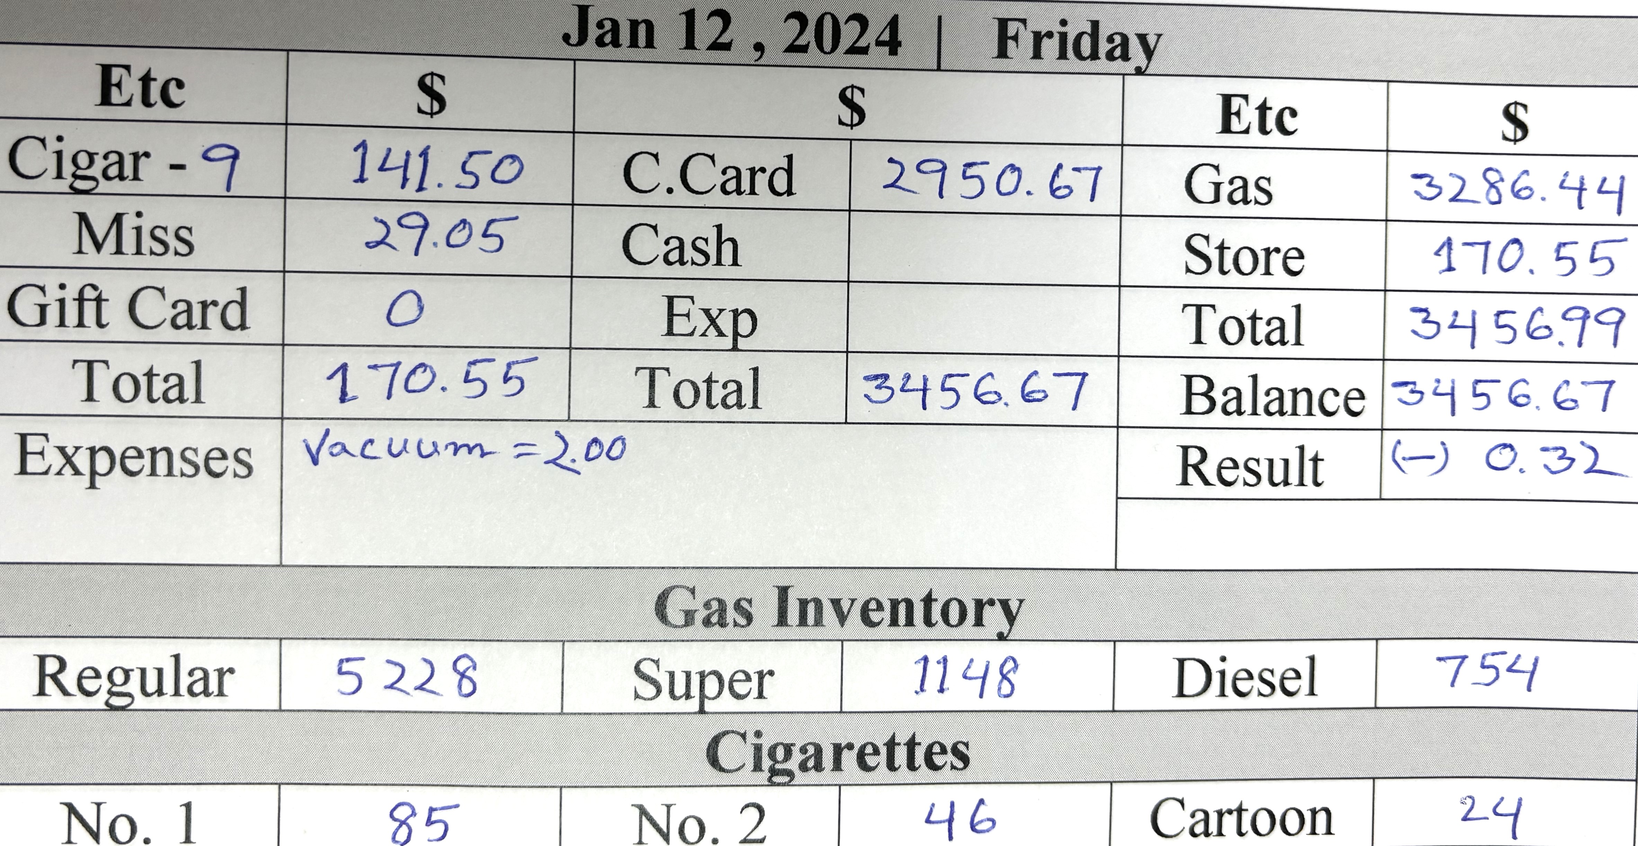
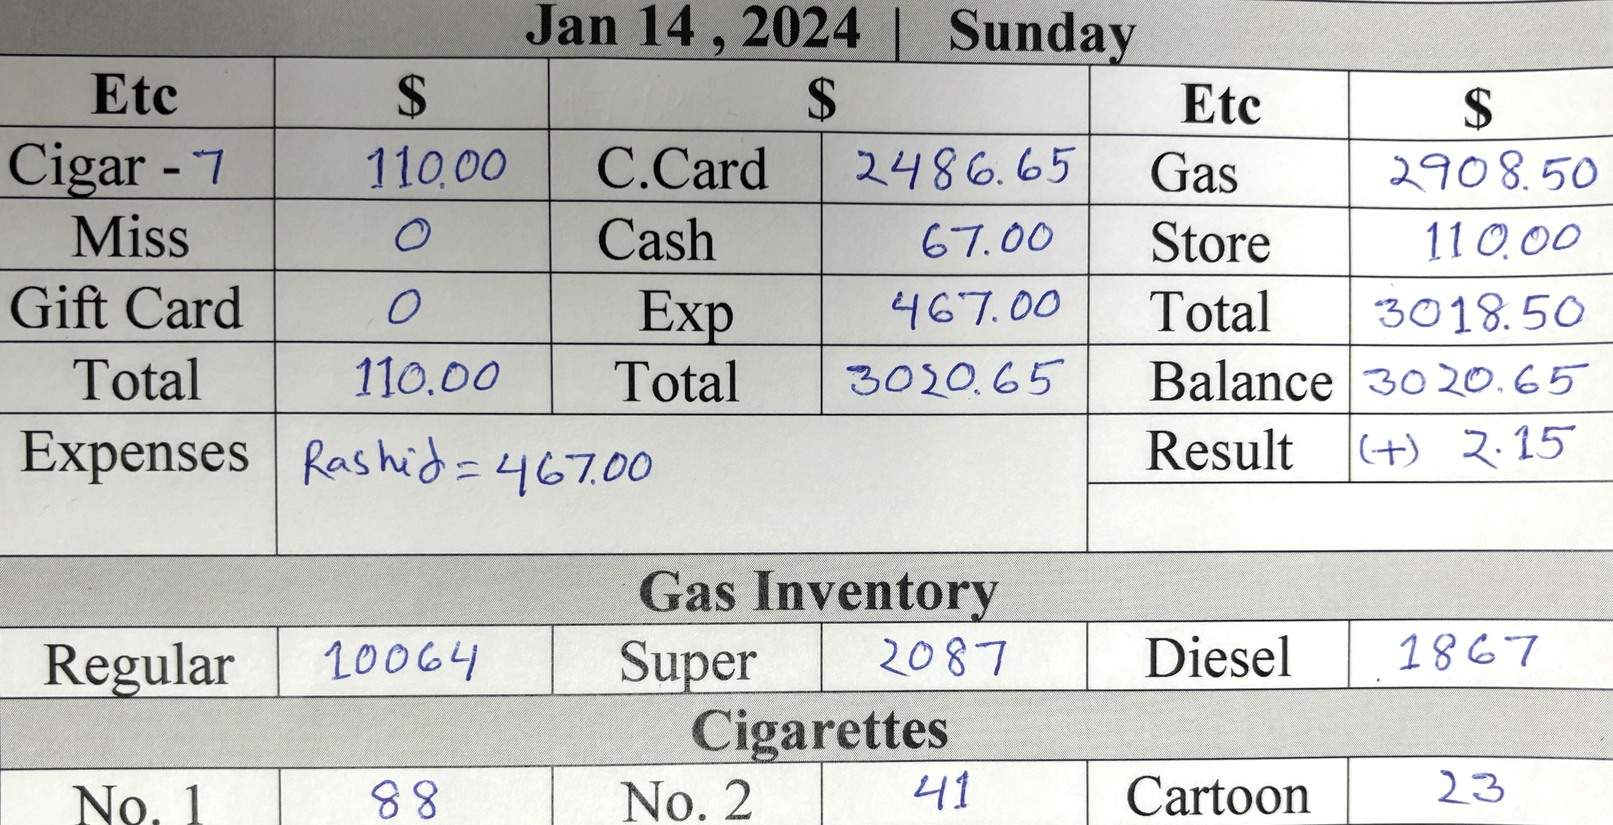
14 done

diff --git a/card.min.html b/card.min.html
@@ -1,1 +1,1 @@
-<!DOCTYPE html> <html lang="en"> <head> <meta charset="UTF-8"> <meta http-equiv="X-UA-Compatible" content="IE=edge"> <meta name="viewport" content="width=device-width,initial-scale=1"> <title>Gallon Info</title> <link rel="stylesheet" href="https://cdn.jsdelivr.net/npm/bootstrap@5.3.0-alpha1/dist/css/bootstrap.min.css"> </head> <body> <div class="card-group d-sm-flex flex-row bd-highlight mb- justify-content-center"> <div class="card bg-secondary align-items-center justify-content-center" style="height:50px"> <div class="card-body text-info fst-italic"> <h5 class="card-title fw-bolder text-center">Regular Price : <span class="text-warning">$3.09</span></h5> </div> </div> <div class="card bg-secondary align-items-center justify-content-center" style="height:50px"> <div class="card-body text-info fst-italic"> <h5 class="card-title fw-bolder text-center pt-">Silver Price : <span class="text-warning">$3.99</span></h5> </div> </div> <div class="card bg-secondary align-items-center justify-content-center" style="height:50px"> <div class="card-body text-info fst-italic"> <h5 class="card-title fw-bolder text-center">Super Price : <span class="text-warning">$4.09</span></h5> </div> </div> <div class="card bg-secondary align-items-center justify-content-center" style="height:50px"> <div class="card-body text-info fst-italic"> <h5 class="card-title fw-bolder text-center">Diesel Price : <span class="text-warning">$4.39</span></h5> </div> </div> </div> <div class="card-group"> <div class="card"> <button type="button" class="btn btn-warning text- fs- fw-bold text-uppercase"> For store Details <a title="printPage Me" class="text-bg-danger ms-3 fw-bolder p-1 rounded-3 text-decoration-none" href="index.html"> Click Me </a> </button> </div> </div> <div class="card-group m-0 d-sm-flex flex-row bd-highlight mb-"> <div class="card me-1 bg-info"> <h5 class="card-title text-center pt-4 m-0"> <button class="p-1 rounded-3" type="button"><a title="Click Me" class="text-decoration-none text-primary fw-bolder" href="index.html">   </a> </button> </h5>  <p class="card-text"></p> <img src="allPic/12.jpg" class="card-img-top text-danger text-center fw-bolder fs-3" alt="Call Rashid "> <div class="card-body">   <p class="card-text"></p> </div> </div> <div class="card me-1 bg-info"> <h5 class="card-title text-center pt-4 m-0"> <button class="p-1 rounded-3" type="button"><a title="Click Me" class="text-primary fw-bolder text-decoration-none" href="index.html"> Jan 11,2024 </a> </button> </h5>  <p class="card-text"></p> <img src="allPic/11.jpg" class="card-img-top text-center text-bg-danger" alt="Not Done"> <div class="card-body">   <p class="card-text"></p> </div> </div> <div class="card ms- bg-info"> <h5 class="card-title text-center pt-4 m-0"> <button class="p-1 rounded-3" type="button"><a title="Click Me" class="text-primary fw-bolder text-decoration-none" href="index.html"> Jan 10,2024 </a> </button> </h5>  <p class="card-text"></p> <img src="allPic/10.jpg" class="card-img-top text-center text-bg-danger" alt="Not Done"> <div class="card-body">   <p class="card-text"></p> </div> </div> <div class="card me-1 bg-info"> <h5 class="card-title text-center pt-4 m-0"> <button class="p-1 rounded-3" type="button"><a title="Click Me" class="text-primary fw-bolder text-decoration-none" href="index.html"> Jan 9,2024 </a> </button> </h5>  <p class="card-text"></p> <img title="Pic" src="allPic/9.jpg" class="card-img-top text-bg-danger fw-bolder text-center" alt="Already Done"> <div class="card-body">   <p class="card-text"></p> </div> </div> </div> <div class="card"> <div class="card-header bg-warning text-dark fw-bolder text-center py-3"> All Rights Reserved @ Jaber Ali , 2024 </div> </div>  <script type="text/javascript">const timeElement=document.querySelector(".time"),dateElement=document.querySelector(".date");function formatTime(e){e.getHours(),e.getMinutes(),e.getHours();return""}function formatDate(e){return` ${["January","February","March","April","May","June","July","August","September","October","November","December"][e.getMonth()]} ${e.getDate()-1}, ${e.getFullYear()}`}setInterval((()=>{const e=new Date;timeElement.textContent=formatTime(e),dateElement.textContent=formatDate(e)}),200)</script> 
+<!DOCTYPE html> <html lang="en"> <head> <meta charset="UTF-8"> <meta http-equiv="X-UA-Compatible" content="IE=edge"> <meta name="viewport" content="width=device-width,initial-scale=1"> <title>Gallon Info</title> <link rel="stylesheet" href="https://cdn.jsdelivr.net/npm/bootstrap@5.3.0-alpha1/dist/css/bootstrap.min.css"> </head> <body> <div class="card-group d-sm-flex flex-row bd-highlight mb- justify-content-center"> <div class="card bg-secondary align-items-center justify-content-center" style="height:50px"> <div class="card-body text-info fst-italic"> <h5 class="card-title fw-bolder text-center">Regular Price : <span class="text-warning">$3.09</span></h5> </div> </div> <div class="card bg-secondary align-items-center justify-content-center" style="height:50px"> <div class="card-body text-info fst-italic"> <h5 class="card-title fw-bolder text-center pt-">Silver Price : <span class="text-warning">$3.99</span></h5> </div> </div> <div class="card bg-secondary align-items-center justify-content-center" style="height:50px"> <div class="card-body text-info fst-italic"> <h5 class="card-title fw-bolder text-center">Super Price : <span class="text-warning">$4.09</span></h5> </div> </div> <div class="card bg-secondary align-items-center justify-content-center" style="height:50px"> <div class="card-body text-info fst-italic"> <h5 class="card-title fw-bolder text-center">Diesel Price : <span class="text-warning">$4.39</span></h5> </div> </div> </div> <div class="card-group"> <div class="card"> <button type="button" class="btn btn-warning text- fs- fw-bold text-uppercase"> For store Details <a title="printPage Me" class="text-bg-danger ms-3 fw-bolder p-1 rounded-3 text-decoration-none" href="index.html"> Click Me </a> </button> </div> </div> <div class="card-group m-0 d-sm-flex flex-row bd-highlight mb-"> <div class="card me-1 bg-info"> <h5 class="card-title text-center pt-4 m-0"> <button class="p-1 rounded-3" type="button"><a title="Click Me" class="text-decoration-none text-primary fw-bolder" href="index.html">   </a> </button> </h5>  <p class="card-text"></p> <img src="allPic/14.jpg" class="card-img-top text-danger text-center fw-bolder fs-3" alt="Call Rashid "> <div class="card-body">   <p class="card-text"></p> </div> </div> <div class="card me-1 bg-info"> <h5 class="card-title text-center pt-4 m-0"> <button class="p-1 rounded-3" type="button"><a title="Click Me" class="text-primary fw-bolder text-decoration-none" href="index.html"> Jan 13,2024 </a> </button> </h5>  <p class="card-text"></p> <img src="allPic/13.jpg" class="card-img-top text-center text-bg-danger" alt="Not Done"> <div class="card-body">   <p class="card-text"></p> </div> </div> <div class="card ms- bg-info"> <h5 class="card-title text-center pt-4 m-0"> <button class="p-1 rounded-3" type="button"><a title="Click Me" class="text-primary fw-bolder text-decoration-none" href="index.html"> Jan 12,2024 </a> </button> </h5>  <p class="card-text"></p> <img src="allPic/12.jpg" class="card-img-top text-center text-bg-danger" alt="Not Done"> <div class="card-body">   <p class="card-text"></p> </div> </div> <div class="card me-1 bg-info"> <h5 class="card-title text-center pt-4 m-0"> <button class="p-1 rounded-3" type="button"><a title="Click Me" class="text-primary fw-bolder text-decoration-none" href="index.html"> Jan 11,2024 </a> </button> </h5>  <p class="card-text"></p> <img title="Pic" src="allPic/11.jpg" class="card-img-top text-bg-danger fw-bolder text-center" alt="Already Done"> <div class="card-body">   <p class="card-text"></p> </div> </div> </div> <div class="card"> <div class="card-header bg-warning text-dark fw-bolder text-center py-3"> All Rights Reserved @ Jaber Ali , 2024 </div> </div>  <script type="text/javascript">const timeElement=document.querySelector(".time"),dateElement=document.querySelector(".date");function formatTime(e){e.getHours(),e.getMinutes(),e.getHours();return""}function formatDate(e){return` ${["January","February","March","April","May","June","July","August","September","October","November","December"][e.getMonth()]} ${e.getDate()-1}, ${e.getFullYear()}`}setInterval((()=>{const e=new Date;timeElement.textContent=formatTime(e),dateElement.textContent=formatDate(e)}),200)</script> 

diff --git a/index.min.html b/index.min.html
@@ -1,1 +1,1 @@
-<!DOCTYPE html> <html lang="en"> <head> <meta charset="UTF-8"> <meta http-equiv="X-UA-Compatible" content="IE=edge"> <meta name="viewport" content="width=device-width,initial-scale=1"> <title>Store Info</title> <link rel="stylesheet" href="https://cdn.jsdelivr.net/npm/bootstrap@5.3.0-alpha1/dist/css/bootstrap.min.css"> </head> <body> <div class="text-bg-success py-2 fw-bold text-uppercase"> <marquee behavior="" direction=""><span class="text-bolder text-bg-danger rounded-circle m-lg-2 fs-">***</span> Personal Business Information <span class="text-bolder text-bg-danger rounded-circle m-lg-2 fs-">***</span></marquee> </div> <div class="card-group"> <div class="card"> <button type="button" class="btn btn-warning fs- fw-bold text-uppercase"> For Gallon Details <a title="printPage Me" class="text-bg-danger ms-3 fw-bolder p-1 rounded-3 text-decoration-none" href="card.html"> Click Me </a>  </button> </div> </div> <div class="card-group"> <div class="card"> <button type="button" class="btn btn-warning fs- fw-bold text-uppercase"> Order Cigarettes <a title="printPage Me" class="text-bg-danger ms-3 fw-bolder p-1 rounded-3 text-decoration-none" href="cigarettes.html"> Click Me </a> </button> </div> <div class="card"> <button type="button" class="btn btn-warning fs- fw-bold text-uppercase"> Weekly Total Money<a title="printPage Me" class="text-bg-danger ms-3 fw-bolder p-1 rounded-3 text-decoration-none" href="weekly.html"> Click Me </a> </button> </div> </div> <div class="text-center py-2"> <button class="fw-bold fs-5 rounded-2 text-bg-light text-primary"> <a title="printPage Me" class="text-decoration-none" href="card.html"> <span>   </span></a>  <span class=""> <button class="ms-5 fw-bolder rounded-2" onclick="printPage()"> Print Me </button></span> </button> </div> <div class="card-group"> <div class="card"> <button type="button" class="btn btn-info fs- fw-bold text-uppercase"> Shift Report <span class="text-white ms-1">*</span> </button> <img src="allPic/hisab.jpg" class="card-img-top text-center text-bg-danger" alt="NOT FINISH"> </div> </div>  <div class="card-grou"> <div class="card pb-3"> <button type="button" class="btn btn-secondary fs fw-bold text-uppercase"> Exp : <span class="text-warning ms-3">0</span> </button> </div> </div> <div class="card-group"> <div class="card"> <button type="button" class="btn btn-secondary fs- fw-bold text-uppercase"> Auto shop </button> </div> </div> <div class="pb-3"> <div class="d-flex justify-content-around border border-dark fw-bolder"> <div class="p-0 text-info">T.M</div> <div class="p-0 text-danger">460</div> <div class="p-0 text-info">Etc</div> <div class="p-0 text-danger">113</div> <div class="p-0 text-info">Rest</div> <div class="p-0 text-danger">347</div> </div> </div>  <!-- #footer start --> <div class="text-bg-warning text-center py-3 fw-bold"> All Rights Reserved @ Jaber Ali , 2024 </div>  <script type="text/javascript">function printPage(){window.print()}const timeElement=document.querySelector(".time"),dateElement=document.querySelector(".date");function formatTime(t){const e=t.getHours()%12||12,n=t.getMinutes(),r=t.getHours()<12;return`${e.toString().padStart(2,"0")}:${n.toString().padStart(2,"0")} ${r?"AM":"PM"}`}function formatDate(t){return` ${["January","February","March","April","May","June","July","August","September","October","November","December"][t.getMonth()]} ${t.getDate()-1}, ${t.getFullYear()}`}setInterval((()=>{const t=new Date;timeElement.textContent=formatTime(t),dateElement.textContent=formatDate(t)}),200)</script> 
+<!DOCTYPE html> <html lang="en"> <head> <meta charset="UTF-8"> <meta http-equiv="X-UA-Compatible" content="IE=edge"> <meta name="viewport" content="width=device-width,initial-scale=1"> <title>Store Info</title> <link rel="stylesheet" href="https://cdn.jsdelivr.net/npm/bootstrap@5.3.0-alpha1/dist/css/bootstrap.min.css"> </head> <body> <div class="text-bg-success py-2 fw-bold text-uppercase"> <marquee behavior="" direction=""><span class="text-bolder text-bg-danger rounded-circle m-lg-2 fs-">***</span> Personal Business Information <span class="text-bolder text-bg-danger rounded-circle m-lg-2 fs-">***</span></marquee> </div> <div class="card-group"> <div class="card"> <button type="button" class="btn btn-warning fs- fw-bold text-uppercase"> For Gallon Details <a title="printPage Me" class="text-bg-danger ms-3 fw-bolder p-1 rounded-3 text-decoration-none" href="card.html"> Click Me </a>  </button> </div> </div> <div class="card-group"> <div class="card"> <button type="button" class="btn btn-warning fs- fw-bold text-uppercase"> Order Cigarettes <a title="printPage Me" class="text-bg-danger ms-3 fw-bolder p-1 rounded-3 text-decoration-none" href="cigarettes.html"> Click Me </a> </button> </div> <div class="card"> <button type="button" class="btn btn-warning fs- fw-bold text-uppercase"> Weekly Total Money<a title="printPage Me" class="text-bg-danger ms-3 fw-bolder p-1 rounded-3 text-decoration-none" href="weekly.html"> Click Me </a> </button> </div> </div> <div class="text-center py-2"> <button class="fw-bold fs-5 rounded-2 text-bg-light text-primary"> <a title="printPage Me" class="text-decoration-none" href="card.html"> <span>   </span></a>  <span class=""> <button class="ms-5 fw-bolder rounded-2" onclick="printPage()"> Print Me </button></span> </button> </div> <div class="card-group"> <div class="card"> <button type="button" class="btn btn-info fs- fw-bold text-uppercase"> Shift Report <span class="text-white ms-1">*</span> </button> <img src="allPic/hisab.jpg" class="card-img-top text-center text-bg-danger" alt="NOT FINISH"> </div> </div>  <div class="card-grou"> <div class="card pb-3"> <button type="button" class="btn btn-secondary fs fw-bold text-uppercase"> Exp : <span class="text-warning ms-3">rashid : 467+300 </span> </button> </div> </div> <div class="card-group"> <div class="card"> <button type="button" class="btn btn-secondary fs- fw-bold text-uppercase"> Auto shop not finish </button> </div> </div> <div class="pb-3"> <div class="d-flex justify-content-around border border-dark fw-bolder"> <div class="p-0 text-info">T.M</div> <div class="p-0 text-danger">460</div> <div class="p-0 text-info">Etc</div> <div class="p-0 text-danger">113</div> <div class="p-0 text-info">Rest</div> <div class="p-0 text-danger">347</div> </div> </div>  <!-- #footer start --> <div class="text-bg-warning text-center py-3 fw-bold"> All Rights Reserved @ Jaber Ali , 2024 </div>  <script type="text/javascript">function printPage(){window.print()}const timeElement=document.querySelector(".time"),dateElement=document.querySelector(".date");function formatTime(t){const e=t.getHours()%12||12,n=t.getMinutes(),r=t.getHours()<12;return`${e.toString().padStart(2,"0")}:${n.toString().padStart(2,"0")} ${r?"AM":"PM"}`}function formatDate(t){return` ${["January","February","March","April","May","June","July","August","September","October","November","December"][t.getMonth()]} ${t.getDate()-1}, ${t.getFullYear()}`}setInterval((()=>{const t=new Date;timeElement.textContent=formatTime(t),dateElement.textContent=formatDate(t)}),200)</script> 

diff --git a/weekly.min.html b/weekly.min.html
@@ -1,1 +1,1 @@
-<!DOCTYPE html> <html lang="en"> <meta charset="UTF-8"> <meta http-equiv="X-UA-Compatible" content="IE=edge"> <meta name="viewport" content="width=device-width,initial-scale=1"> <title>Cigarettes Info</title> <link rel="stylesheet" href="https://cdn.jsdelivr.net/npm/bootstrap@5.3.0-alpha1/dist/css/bootstrap.min.css">  <body> <div class="text-bg-success py-2 fw-bold"> <marquee behavior="" direction="">Weekly Total Sales Money</marquee> </div> <div class="container-fluid text-center m-0 p-0"> <div class="card-group"> <div class="card"> <button type="button" class="btn btn-warning fs- fw-bold text-uppercase"> Home Page <a title="printPage Me" class="text-bg-danger ms-2 fw-bolder p-1 rounded-3 text-decoration-none" href="index.html"> Click Me </a> </button> </div> </div> </div> <div class="text-bg-info text-cente py- fw-bold mb-"> <div class="card-group m-0 d-sm-flex flex-row bd-highlight mb-"> <div class="card me- bg-inf"> <h4 class="text-center ms-5 mt-3">Date : Jan 8 to 14 , 2024</h4> <div class="card-body ms-3 p-0"> <table class="table"> <tr class="text-end"> <td>Monday </td> <td>:</td> <td class="text-start"> $ 590.00</td> </tr> <tr class="text-end"> <td>Tuesday </td> <td> :</td> <td class="text-start"> $ 450.00</td> </tr> <tr class="text-end"> <td>Wednesday</td> <td> :</td> <td class="text-start">$ 449.00</td> </tr> <tr class="text-end"> <td>Thursday </td> <td> :</td> <td class="text-start"> $ 254.00</td> </tr> <tr class="text-end"> <td class="">Friday </td> <td> :</td> <td class="text-start"> $ 504.00</td> </tr> <tr class="text-end"> <td>Saturday </td> <td> :</td> <td class="text-start">00</td> </tr> <tr class="text-end"> <td>Sunday </td> <td> :</td> <td class="text-start">00</td> </tr> <tr class="text-end"> <td>Auto Money </td> <td> :</td> <td class="text-start"> 00</td> </tr> </table> <div class="m-0 p-0"> <p class="text-center text-danger bg-light fw-bold">Total Money : $ 2247.00</p> </div> </div> </div> <div class="card me- bg-"> <div class="card-body"> <h4 class="text-start ms-2">Expenses of This Week</h4> <table class="table text-start"> <tr> <td class="">Ali <span class="ms-5">: $ 75.00</span></td> </tr> <tr> <td class="">Rashid <span class="ms-2">: $ 767.00</span></td> </tr> <tr> <td class="">Vacuum <span class="ms-2">: $ 2.00</span></td> </tr> <tr> <td class="text-bg-warning text-dark rounded-2">Total <span class="ms-4">: $ 844.00</span></td> </tr> </table> </div> </div> </div> </div> <!-- #footer start --> <div class="text-bg-success text-center py-2 fw-bold"> <p> All Rights Reserved @ Jaber Ali , 2023  </p> </div>  <script type="text/javascript">function printPage(){window.print()}</script> 
+<!DOCTYPE html> <html lang="en"> <meta charset="UTF-8"> <meta http-equiv="X-UA-Compatible" content="IE=edge"> <meta name="viewport" content="width=device-width,initial-scale=1"> <title>Cigarettes Info</title> <link rel="stylesheet" href="https://cdn.jsdelivr.net/npm/bootstrap@5.3.0-alpha1/dist/css/bootstrap.min.css">  <body> <div class="text-bg-success py-2 fw-bold"> <marquee behavior="" direction="">Weekly Total Sales Money</marquee> </div> <div class="container-fluid text-center m-0 p-0"> <div class="card-group"> <div class="card"> <button type="button" class="btn btn-warning fs- fw-bold text-uppercase"> Home Page <a title="printPage Me" class="text-bg-danger ms-2 fw-bolder p-1 rounded-3 text-decoration-none" href="index.html"> Click Me </a> </button> </div> </div> </div> <div class="text-bg-info text-cente py- fw-bold mb-"> <div class="card-group m-0 d-sm-flex flex-row bd-highlight mb-"> <div class="card me- bg-inf"> <h4 class="text-center ms-5 mt-3">Date : Jan 8 to 14 , 2024</h4> <div class="card-body ms-3 p-0"> <table class="table"> <tr class="text-end"> <td>Monday </td> <td>:</td> <td class="text-start"> $ 590.00</td> </tr> <tr class="text-end"> <td>Tuesday </td> <td> :</td> <td class="text-start"> $ 450.00</td> </tr> <tr class="text-end"> <td>Wednesday</td> <td> :</td> <td class="text-start">$ 449.00</td> </tr> <tr class="text-end"> <td>Thursday </td> <td> :</td> <td class="text-start"> $ 179.00</td> </tr> <tr class="text-end"> <td class="">Friday </td> <td> :</td> <td class="text-start"> $ 204.00</td> </tr> <tr class="text-end"> <td>Saturday </td> <td> :</td> <td class="text-start">53.00</td> </tr> <tr class="text-end"> <td>Sunday </td> <td> :</td> <td class="text-start">67.00</td> </tr> <tr class="text-end"> <td>Auto Money </td> <td> :</td> <td class="text-start"> 00</td> </tr> </table> <div class="m-0 p-0"> <p class="text-center text-danger bg-light fw-bold">Total Money : $ 1992.00</p> </div> </div> </div> <div class="card me- bg-"> <div class="card-body"> <h4 class="text-start ms-2">Expenses of This Week</h4> <table class="table text-start"> <tr> <td class="">Ali <span class="ms-5">: $ 75.00</span></td> </tr> <tr> <td class="">Rashid <span class="ms-2">: $ 767.00</span></td> </tr> <tr> <td class="">Vacuum <span class="ms-2">: $ 2.00</span></td> </tr> <tr> <td class="text-bg-warning text-dark rounded-2">Total <span class="ms-4">: $ 844.00</span></td> </tr> </table> </div> </div> </div> </div> <!-- #footer start --> <div class="text-bg-success text-center py-2 fw-bold"> <p> All Rights Reserved @ Jaber Ali , 2023  </p> </div>  <script type="text/javascript">function printPage(){window.print()}</script> 

diff --git a/card.html b/card.html
@@ -67,7 +67,7 @@
         </h5>
           <p class="card-text"></p>
           <p class="card-text"><small class="text-muted"></small></p>
-        <img src="allPic/12.jpg" class="card-img-top text-danger text-center fw-bolder fs-3"   alt="Call Rashid ">
+        <img src="allPic/14.jpg" class="card-img-top text-danger text-center fw-bolder fs-3"   alt="Call Rashid ">
         <div class="card-body">
           <h5 class="card-title"></h5>
           <p class="card-text"></p>
@@ -78,13 +78,13 @@
         <h5 class="card-title text-center pt-4 m-0">
           <button class="p-1 rounded-3" type="button"><a title="Click Me"
              class="text-primary fw-bolder text-decoration-none " href="index.html">
-             Jan 11,2024
+             Jan 13,2024
           </a>
           </button>
         </h5>
           <p class="card-text"></p>
           <p class="card-text"><small class="text-muted"></small></p>
-        <img src="allPic/11.jpg" class="card-img-top text-center text-bg-danger" 
+        <img src="allPic/13.jpg" class="card-img-top text-center text-bg-danger" 
         alt="Not Done">
         <div class="card-body">
           <h5 class="card-title"></h5>
@@ -96,13 +96,13 @@
         <h5 class="card-title text-center pt-4 m-0 ">
           <button class="p-1 rounded-3" type="button"><a title="Click Me" 
             class="text-primary fw-bolder text-decoration-none " href="index.html">
-            Jan 10,2024         
+            Jan 12,2024         
           </a>
           </button>
           </h5>
           <p class="card-text"></p>
           <p class="card-text"><small class="text-muted"></small></p>
-        <img src="allPic/10.jpg" class="card-img-top text-center text-bg-danger" 
+        <img src="allPic/12.jpg" class="card-img-top text-center text-bg-danger" 
         alt="Not Done">
         <div class="card-body">
           <h5 class="card-title"></h5>
@@ -115,13 +115,13 @@
         <h5 class="card-title text-center pt-4 m-0 ">
           <button class="p-1 rounded-3" type="button"><a title="Click Me" 
             class="text-primary fw-bolder text-decoration-none " href="index.html">
-             Jan 9,2024
+             Jan 11,2024
             </a>
           </button>
           </h5>
           <p class="card-text"></p>
           <p class="card-text"><small class="text-muted"></small></p>
-        <img title="Pic" src="allPic/9.jpg" class="card-img-top  text-bg-danger fw-bolder text-center"
+        <img title="Pic" src="allPic/11.jpg" class="card-img-top  text-bg-danger fw-bolder text-center"
          alt="Already Done">
         <div class="card-body">
           <h5 class="card-title"></h5>

diff --git a/weekly.html b/weekly.html
@@ -64,22 +64,22 @@
                 <tr class=" text-end">
                     <td>Thursday </td>
                     <td> :</td>
-                    <td class="text-start"> $ 254.00</td>
+                    <td class="text-start"> $ 179.00</td>
                 </tr>
                 <tr class=" text-end">
                     <td class="">Friday </td>
                     <td> :</td>
-                    <td class="text-start"> $ 504.00</td>
+                    <td class="text-start"> $ 204.00</td>
                 </tr>
                 <tr class=" text-end">
                     <td>Saturday </td>
                     <td> :</td>
-                    <td class="text-start">00</td>
+                    <td class="text-start">53.00</td>
                 </tr>
                 <tr class=" text-end">
                     <td>Sunday </td>
                     <td> :</td>
-                    <td class="text-start">00</td>
+                    <td class="text-start">67.00</td>
                 </tr>
                 <tr class=" text-end">
                   <td>Auto Money </td>
@@ -89,7 +89,7 @@
           
             </table>
             <div class="m-0 p-0 ">
-                <p class="text-center text-danger bg-light fw-bold ">Total Money : $ 2247.00</p>
+                <p class="text-center text-danger bg-light fw-bold ">Total Money : $ 1992.00</p>
             </div>
           </div>
         </div>

diff --git a/index.html b/index.html
@@ -98,8 +98,8 @@
           type="button"
           class="btn btn-secondary fs fw-bold text-uppercase"
         >
-         <!-- Exp  :  <span class="text-warning ms-3">rashid :  272+300 </span> -->
-         Exp  : <span class="text-warning ms-3">0</span>
+         Exp  :  <span class="text-warning ms-3">rashid :  467+300 </span>
+         <!-- Exp  : <span class="text-warning ms-3">0</span> -->
          
         </button>
          
@@ -113,7 +113,7 @@
           type="button"
           class="btn btn-secondary fs- fw-bold text-uppercase"
         >
-          Auto shop 
+          Auto shop not finish
         </button>
       </div>
     </div>
